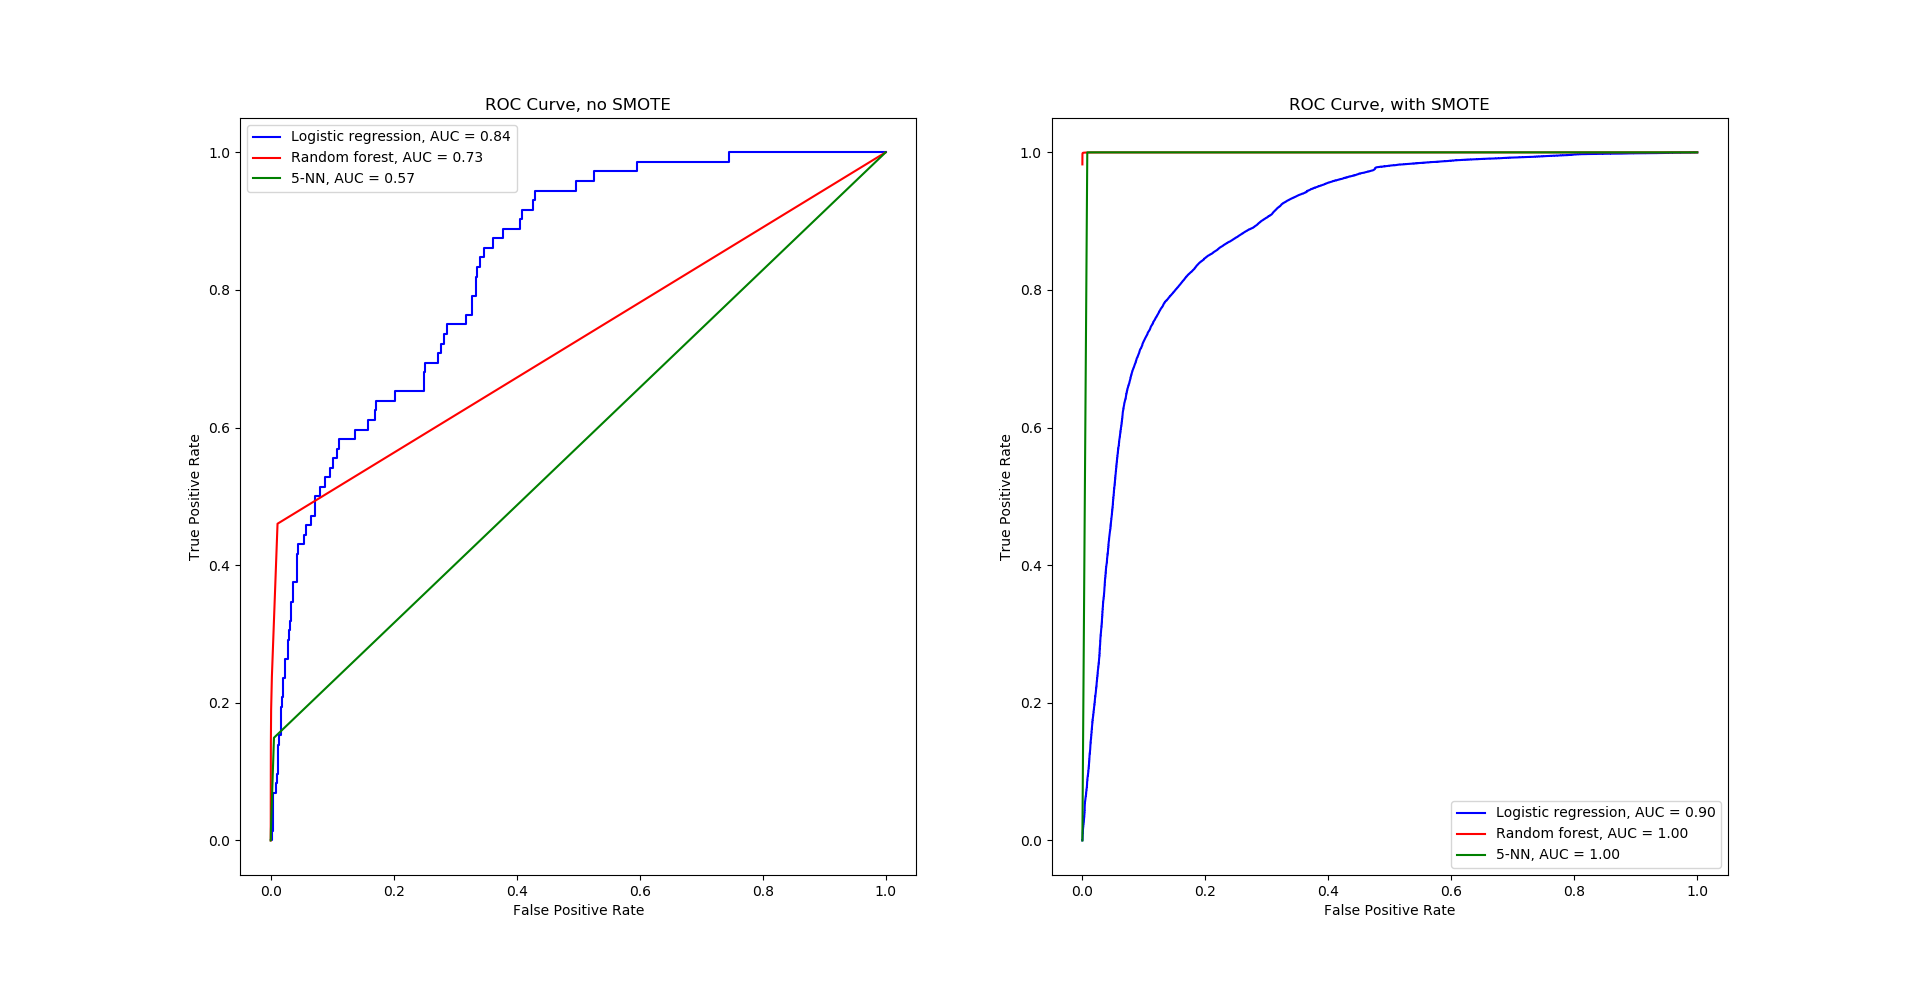
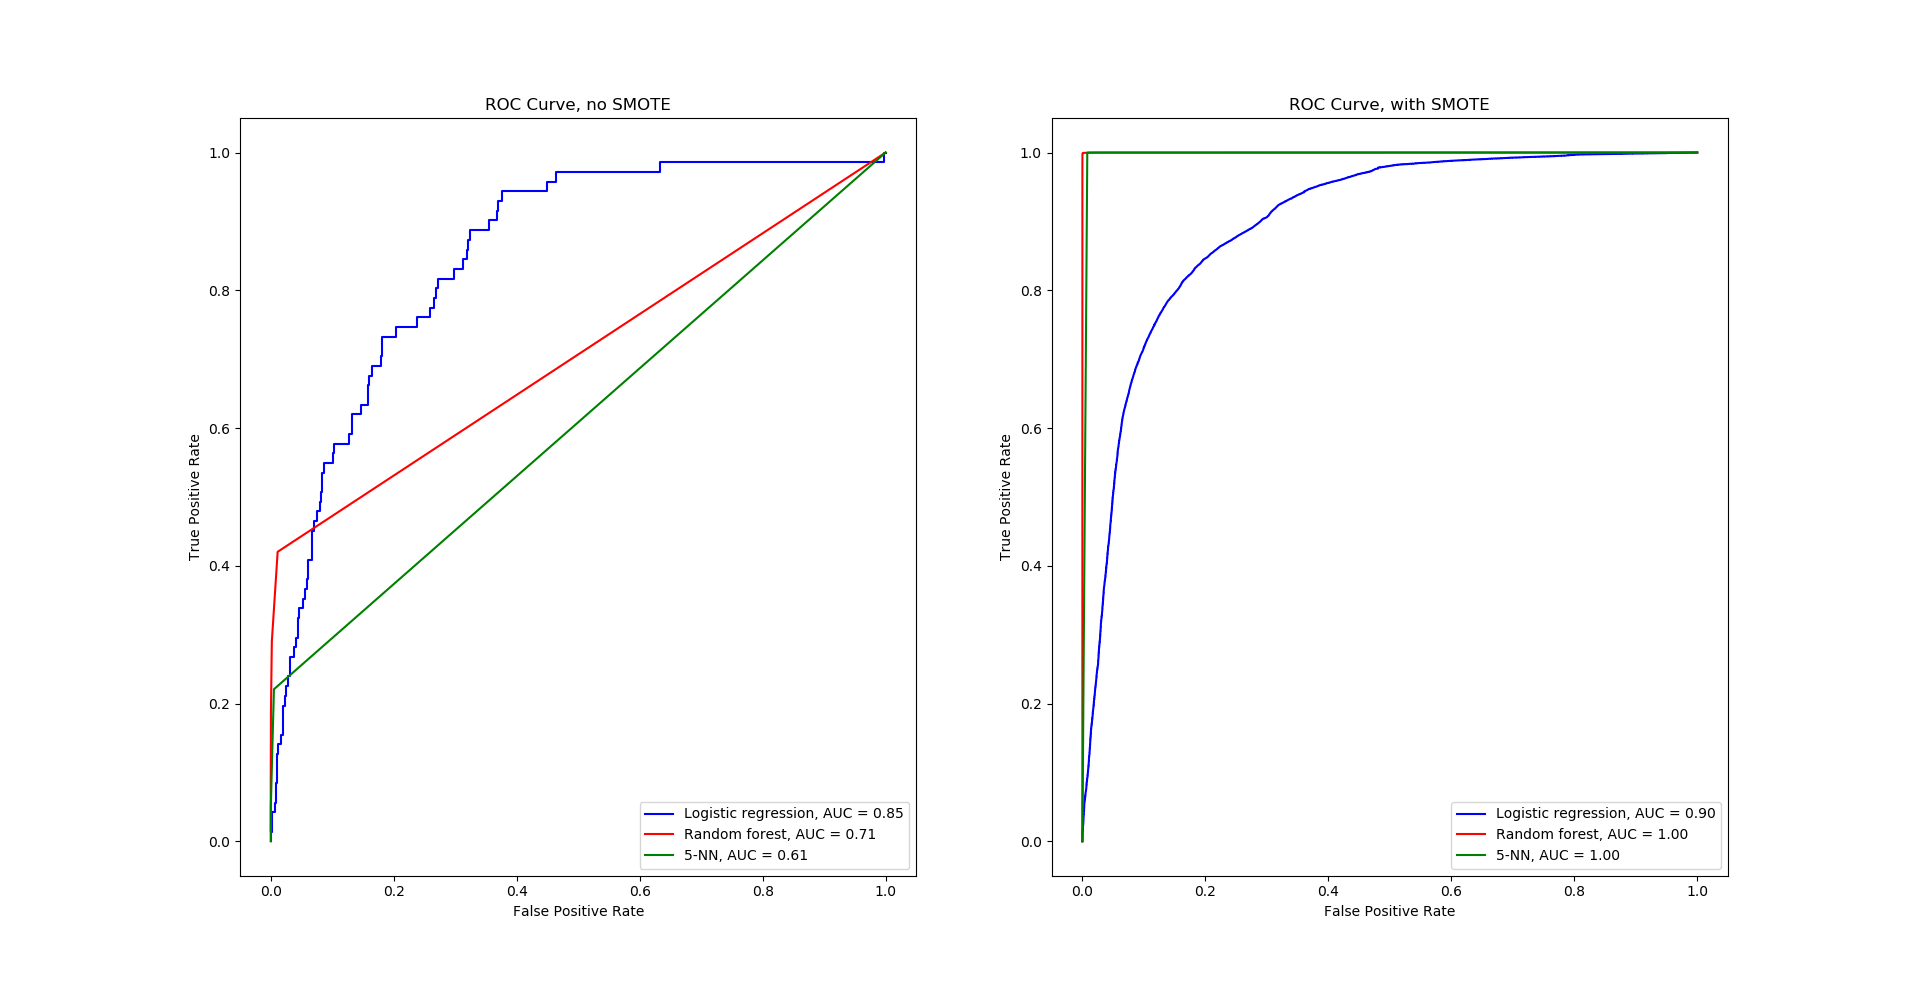
Fix code and plot.

diff --git a/assignment1/fraud_detection_Tim.py b/assignment1/fraud_detection_Tim.py
@@ -260,6 +260,70 @@ def processdata(y_test, predict_proba):
     roc_area = auc(fpr, tpr)
     return fpr, tpr, roc_area
 
+def classifynosmote(x,y,clf,ts,cutoff,label,color):
+    print 'No SMOTE.'
+    print ' '
+
+    TP, FP, FN, TN = 0, 0, 0, 0
+    # Imbalanced learning, not using SMOTE
+    x_array = np.array(x)
+    y_array = np.array(y)
+    print str(x_array.size)
+    usx = x_array
+    usy = y_array
+    x_train, x_test, y_train, y_test = train_test_split(usx, usy,
+                                                        test_size=ts)  # test_size: proportion of train/test data
+    clf.fit(x_train, y_train)
+    y_predict = clf.predict(x_test)
+    for i in xrange(len(y_predict)):
+        if y_test[i] == 1 and y_predict[i] == 1:
+            TP += 1
+        if y_test[i] == 0 and y_predict[i] == 1:
+            FP += 1
+        if y_test[i] == 1 and y_predict[i] == 0:
+            FN += 1
+        if y_test[i] == 0 and y_predict[i] == 0:
+            TN += 1
+
+    printAll(TP, FP, FN, TN)
+
+    predict_proba = clf.predict_proba(x_test)  # the probability of each smple labelled to positive or negative
+    y_predict = (predict_proba[:, 1] > cutoff).astype(int)
+    false_positive_rate, true_positive_rate, roc_auc = processdata(y_test, predict_proba)
+    handle, = plt.plot(false_positive_rate, true_positive_rate, color, label='%s, AUC = %0.2f' % (label, roc_auc))
+    return handle
+
+def classifywithsmote(x,y,clf,ts,cutoff,label,color):
+    # Reset TP, FP, TN, FN
+    TP, FP, FN, TN = 0, 0, 0, 0
+    print ' '
+    print 'With SMOTE.'
+    print ' '
+    # Balanced learning, using SMOTE
+    x_array = np.array(x)
+    y_array = np.array(y)
+    print str(x_array.size)
+    usx, usy = SMOTE().fit_sample(x_array, y_array)
+    x_train, x_test, y_train, y_test = train_test_split(usx, usy,
+                                                        test_size=ts)  # test_size: proportion of train/test data
+    clf.fit(x_train, y_train)
+    y_predict = clf.predict(x_test)
+    for i in xrange(len(y_predict)):
+        if y_test[i] == 1 and y_predict[i] == 1:
+            TP += 1
+        if y_test[i] == 0 and y_predict[i] == 1:
+            FP += 1
+        if y_test[i] == 1 and y_predict[i] == 0:
+            FN += 1
+        if y_test[i] == 0 and y_predict[i] == 0:
+            TN += 1
+
+    printAll(TP, FP, FN, TN)
+    predict_proba = clf.predict_proba(x_test)  # the probability of each smple labelled to positive or negative
+    y_predict = (predict_proba[:, 1] > cutoff).astype(int)
+    false_positive_rate, true_positive_rate, roc_auc = processdata(y_test, predict_proba)
+    handle, = plt.plot(false_positive_rate, true_positive_rate, color, label='%s, AUC = %0.2f' % (label, roc_auc))
+    return handle
 
 ts = 0.2
 cutoff = 0.5
@@ -269,207 +333,22 @@ cutoff = 0.5
 # NO SMOTE.
 #
 #
-clf = linear_model.LogisticRegression()
-
-print 'Test size: '+str(ts)
-print ' '
-print 'No SMOTE.'
-print ' '
-
-TP, FP, FN, TN = 0, 0, 0, 0
-# Imbalanced learning, not using SMOTE
-x_array = np.array(x)
-y_array = np.array(y)
-usx = x_array
-usy = y_array
-x_train, x_test, y_train, y_test = train_test_split(usx, usy, test_size = ts)#test_size: proportion of train/test data
-clf.fit(x_train, y_train)
-y_predict = clf.predict(x_test)
-for i in xrange(len(y_predict)):
-    if y_test[i]==1 and y_predict[i]==1:
-        TP += 1
-    if y_test[i]==0 and y_predict[i]==1:
-        FP += 1
-    if y_test[i]==1 and y_predict[i]==0:
-       FN += 1
-    if y_test[i]==0 and y_predict[i]==0:
-        TN += 1
-
-printAll(TP, FP, FN, TN)
-
-#print confusion_matrix(y_test, answear) watch out the element in confusion matrix
-precision, recall, thresholds = precision_recall_curve(y_test, y_predict)
-predict_proba = clf.predict_proba(x_test)#the probability of each smple labelled to positive or negative
-y_predict = (predict_proba[:, 1] > cutoff).astype(int)
-false_positive_rate, true_positive_rate, roc_auc = processdata(y_test, predict_proba)
 plt.figure()
 plt.subplot(1, 2, 1)
-l1, = plt.plot(false_positive_rate, true_positive_rate, 'b', label='Logistic regression, AUC = %0.2f' % roc_auc)
-
-clf = RandomForestClassifier()
-
-print 'Test size: '+str(ts)
-print ' '
-print 'No SMOTE.'
-print ' '
-
-TP, FP, FN, TN = 0, 0, 0, 0
-# Imbalanced learning, not using SMOTE
-x_array = np.array(x)
-y_array = np.array(y)
-usx = x_array
-usy = y_array
-x_train, x_test, y_train, y_test = train_test_split(usx, usy, test_size = ts)#test_size: proportion of train/test data
-clf.fit(x_train, y_train)
-y_predict = clf.predict(x_test)
-for i in xrange(len(y_predict)):
-    if y_test[i]==1 and y_predict[i]==1:
-        TP += 1
-    if y_test[i]==0 and y_predict[i]==1:
-        FP += 1
-    if y_test[i]==1 and y_predict[i]==0:
-       FN += 1
-    if y_test[i]==0 and y_predict[i]==0:
-        TN += 1
-
-printAll(TP, FP, FN, TN)
-
-#print confusion_matrix(y_test, answear) watch out the element in confusion matrix
-precision, recall, thresholds = precision_recall_curve(y_test, y_predict)
-predict_proba = clf.predict_proba(x_test)#the probability of each smple labelled to positive or negative
-y_predict = (predict_proba[:, 1] > cutoff).astype(int)
-false_positive_rate, true_positive_rate, roc_auc = processdata(y_test, predict_proba)
-l2, = plt.plot(false_positive_rate, true_positive_rate, 'r', label='Random forest, AUC = %0.2f' % roc_auc)
-
-clf = neighbors.KNeighborsClassifier(algorithm='kd_tree')
-
-print 'Test size: '+str(ts)
-print ' '
-print 'No SMOTE.'
-print ' '
-
-TP, FP, FN, TN = 0, 0, 0, 0
-# Imbalanced learning, not using SMOTE
-x_array = np.array(x)
-y_array = np.array(y)
-usx = x_array
-usy = y_array
-x_train, x_test, y_train, y_test = train_test_split(usx, usy, test_size = ts)#test_size: proportion of train/test data
-clf.fit(x_train, y_train)
-y_predict = clf.predict(x_test)
-for i in xrange(len(y_predict)):
-    if y_test[i]==1 and y_predict[i]==1:
-        TP += 1
-    if y_test[i]==0 and y_predict[i]==1:
-        FP += 1
-    if y_test[i]==1 and y_predict[i]==0:
-       FN += 1
-    if y_test[i]==0 and y_predict[i]==0:
-        TN += 1
-
-printAll(TP, FP, FN, TN)
-
-#print confusion_matrix(y_test, answear) watch out the element in confusion matrix
-precision, recall, thresholds = precision_recall_curve(y_test, y_predict)
-predict_proba = clf.predict_proba(x_test)#the probability of each smple labelled to positive or negative
-y_predict = (predict_proba[:, 1] > cutoff).astype(int)
-false_positive_rate, true_positive_rate, roc_auc = processdata(y_test, predict_proba)
-l3, = plt.plot(false_positive_rate, true_positive_rate, 'g', label='5-NN, AUC = %0.2f' % roc_auc)
+l1 = classifynosmote(x,y,linear_model.LogisticRegression(),ts,cutoff,'Logistic regression','b')
+l2 = classifynosmote(x,y,RandomForestClassifier(),ts,cutoff,'Random forest','r')
+l3 = classifynosmote(x,y,neighbors.KNeighborsClassifier(algorithm='kd_tree'),ts,cutoff,'5-NN','g')
 plt.xlabel('False Positive Rate')
 plt.ylabel('True Positive Rate')
 plt.legend(handles=[l1, l2, l3])
 plt.title('ROC Curve, no SMOTE')
 
-# Reset TP, FP, TN, FN
-TP, FP, FN, TN = 0, 0, 0, 0
-print ' '
-print 'With SMOTE.'
-print ' '
-
-clf = linear_model.LogisticRegression()
-
-# Balanced learning, using SMOTE
-x_array = np.array(x)
-y_array = np.array(y)
-usx, usy = SMOTE().fit_sample(x_array, y_array)
-x_train, x_test, y_train, y_test = train_test_split(usx, usy, test_size = ts)#test_size: proportion of train/test data
-clf.fit(x_train, y_train)
-y_predict = clf.predict(x_test)
-for i in xrange(len(y_predict)):
-    if y_test[i]==1 and y_predict[i]==1:
-        TP += 1
-    if y_test[i]==0 and y_predict[i]==1:
-        FP += 1
-    if y_test[i]==1 and y_predict[i]==0:
-        FN += 1
-    if y_test[i]==0 and y_predict[i]==0:
-        TN += 1
-
-printAll(TP, FP, FN, TN)
-#print confusion_matrix(y_test, answear) watch out the element in confusion matrix
-precision, recall, thresholds = precision_recall_curve(y_test, y_predict)
-predict_proba = clf.predict_proba(x_test)#the probability of each smple labelled to positive or negative
-y_predict = (predict_proba[:, 1] > cutoff).astype(int)
-false_positive_rate, true_positive_rate, roc_auc = processdata(y_test, predict_proba)
 plt.subplot(1, 2, 2)
-l1, = plt.plot(false_positive_rate, true_positive_rate, 'b', label='Logistic regression, AUC = %0.2f' % roc_auc)
-
-clf = RandomForestClassifier()
-
-# Balanced learning, using SMOTE
-x_array = np.array(x)
-y_array = np.array(y)
-usx, usy = SMOTE().fit_sample(x_array, y_array)
-x_train, x_test, y_train, y_test = train_test_split(usx, usy, test_size = ts)#test_size: proportion of train/test data
-clf.fit(x_train, y_train)
-y_predict = clf.predict(x_test)
-for i in xrange(len(y_predict)):
-    if y_test[i]==1 and y_predict[i]==1:
-        TP += 1
-    if y_test[i]==0 and y_predict[i]==1:
-        FP += 1
-    if y_test[i]==1 and y_predict[i]==0:
-        FN += 1
-    if y_test[i]==0 and y_predict[i]==0:
-        TN += 1
-
-printAll(TP, FP, FN, TN)
-#print confusion_matrix(y_test, answear) watch out the element in confusion matrix
-precision, recall, thresholds = precision_recall_curve(y_test, y_predict)
-predict_proba = clf.predict_proba(x_test)#the probability of each smple labelled to positive or negative
-y_predict = (predict_proba[:, 1] > cutoff).astype(int)
-false_positive_rate, true_positive_rate, roc_auc = processdata(y_test, predict_proba)
-l2, = plt.plot(false_positive_rate, true_positive_rate, 'r', label='Random forest, AUC = %0.2f' % roc_auc)
-
-clf = neighbors.KNeighborsClassifier(algorithm='kd_tree')
-
-# Balanced learning, using SMOTE
-x_array = np.array(x)
-y_array = np.array(y)
-usx, usy = SMOTE().fit_sample(x_array, y_array)
-x_train, x_test, y_train, y_test = train_test_split(usx, usy, test_size = ts)#test_size: proportion of train/test data
-clf.fit(x_train, y_train)
-y_predict = clf.predict(x_test)
-for i in xrange(len(y_predict)):
-    if y_test[i]==1 and y_predict[i]==1:
-        TP += 1
-    if y_test[i]==0 and y_predict[i]==1:
-        FP += 1
-    if y_test[i]==1 and y_predict[i]==0:
-        FN += 1
-    if y_test[i]==0 and y_predict[i]==0:
-        TN += 1
-
-printAll(TP, FP, FN, TN)
-#print confusion_matrix(y_test, answear) watch out the element in confusion matrix
-precision, recall, thresholds = precision_recall_curve(y_test, y_predict)
-predict_proba = clf.predict_proba(x_test)#the probability of each smple labelled to positive or negative
-y_predict = (predict_proba[:, 1] > cutoff).astype(int)
-false_positive_rate, true_positive_rate, roc_auc = processdata(y_test, predict_proba)
-l3, = plt.plot(false_positive_rate, true_positive_rate, 'g', label='5-NN, AUC = %0.2f' % roc_auc)
-
-plt.legend(handles=[l1, l2, l3])
+l4 = classifywithsmote(x,y,linear_model.LogisticRegression(),ts,cutoff,'Logistic regression','b')
+l5 = classifywithsmote(x,y,RandomForestClassifier(),ts,cutoff,'Random forest','r')
+l6 = classifywithsmote(x,y,neighbors.KNeighborsClassifier(algorithm='kd_tree'),ts,cutoff,'5-NN','g')
 plt.xlabel('False Positive Rate')
 plt.ylabel('True Positive Rate')
+plt.legend(handles=[l4, l5, l6])
 plt.title('ROC Curve, with SMOTE')
 plt.show()
